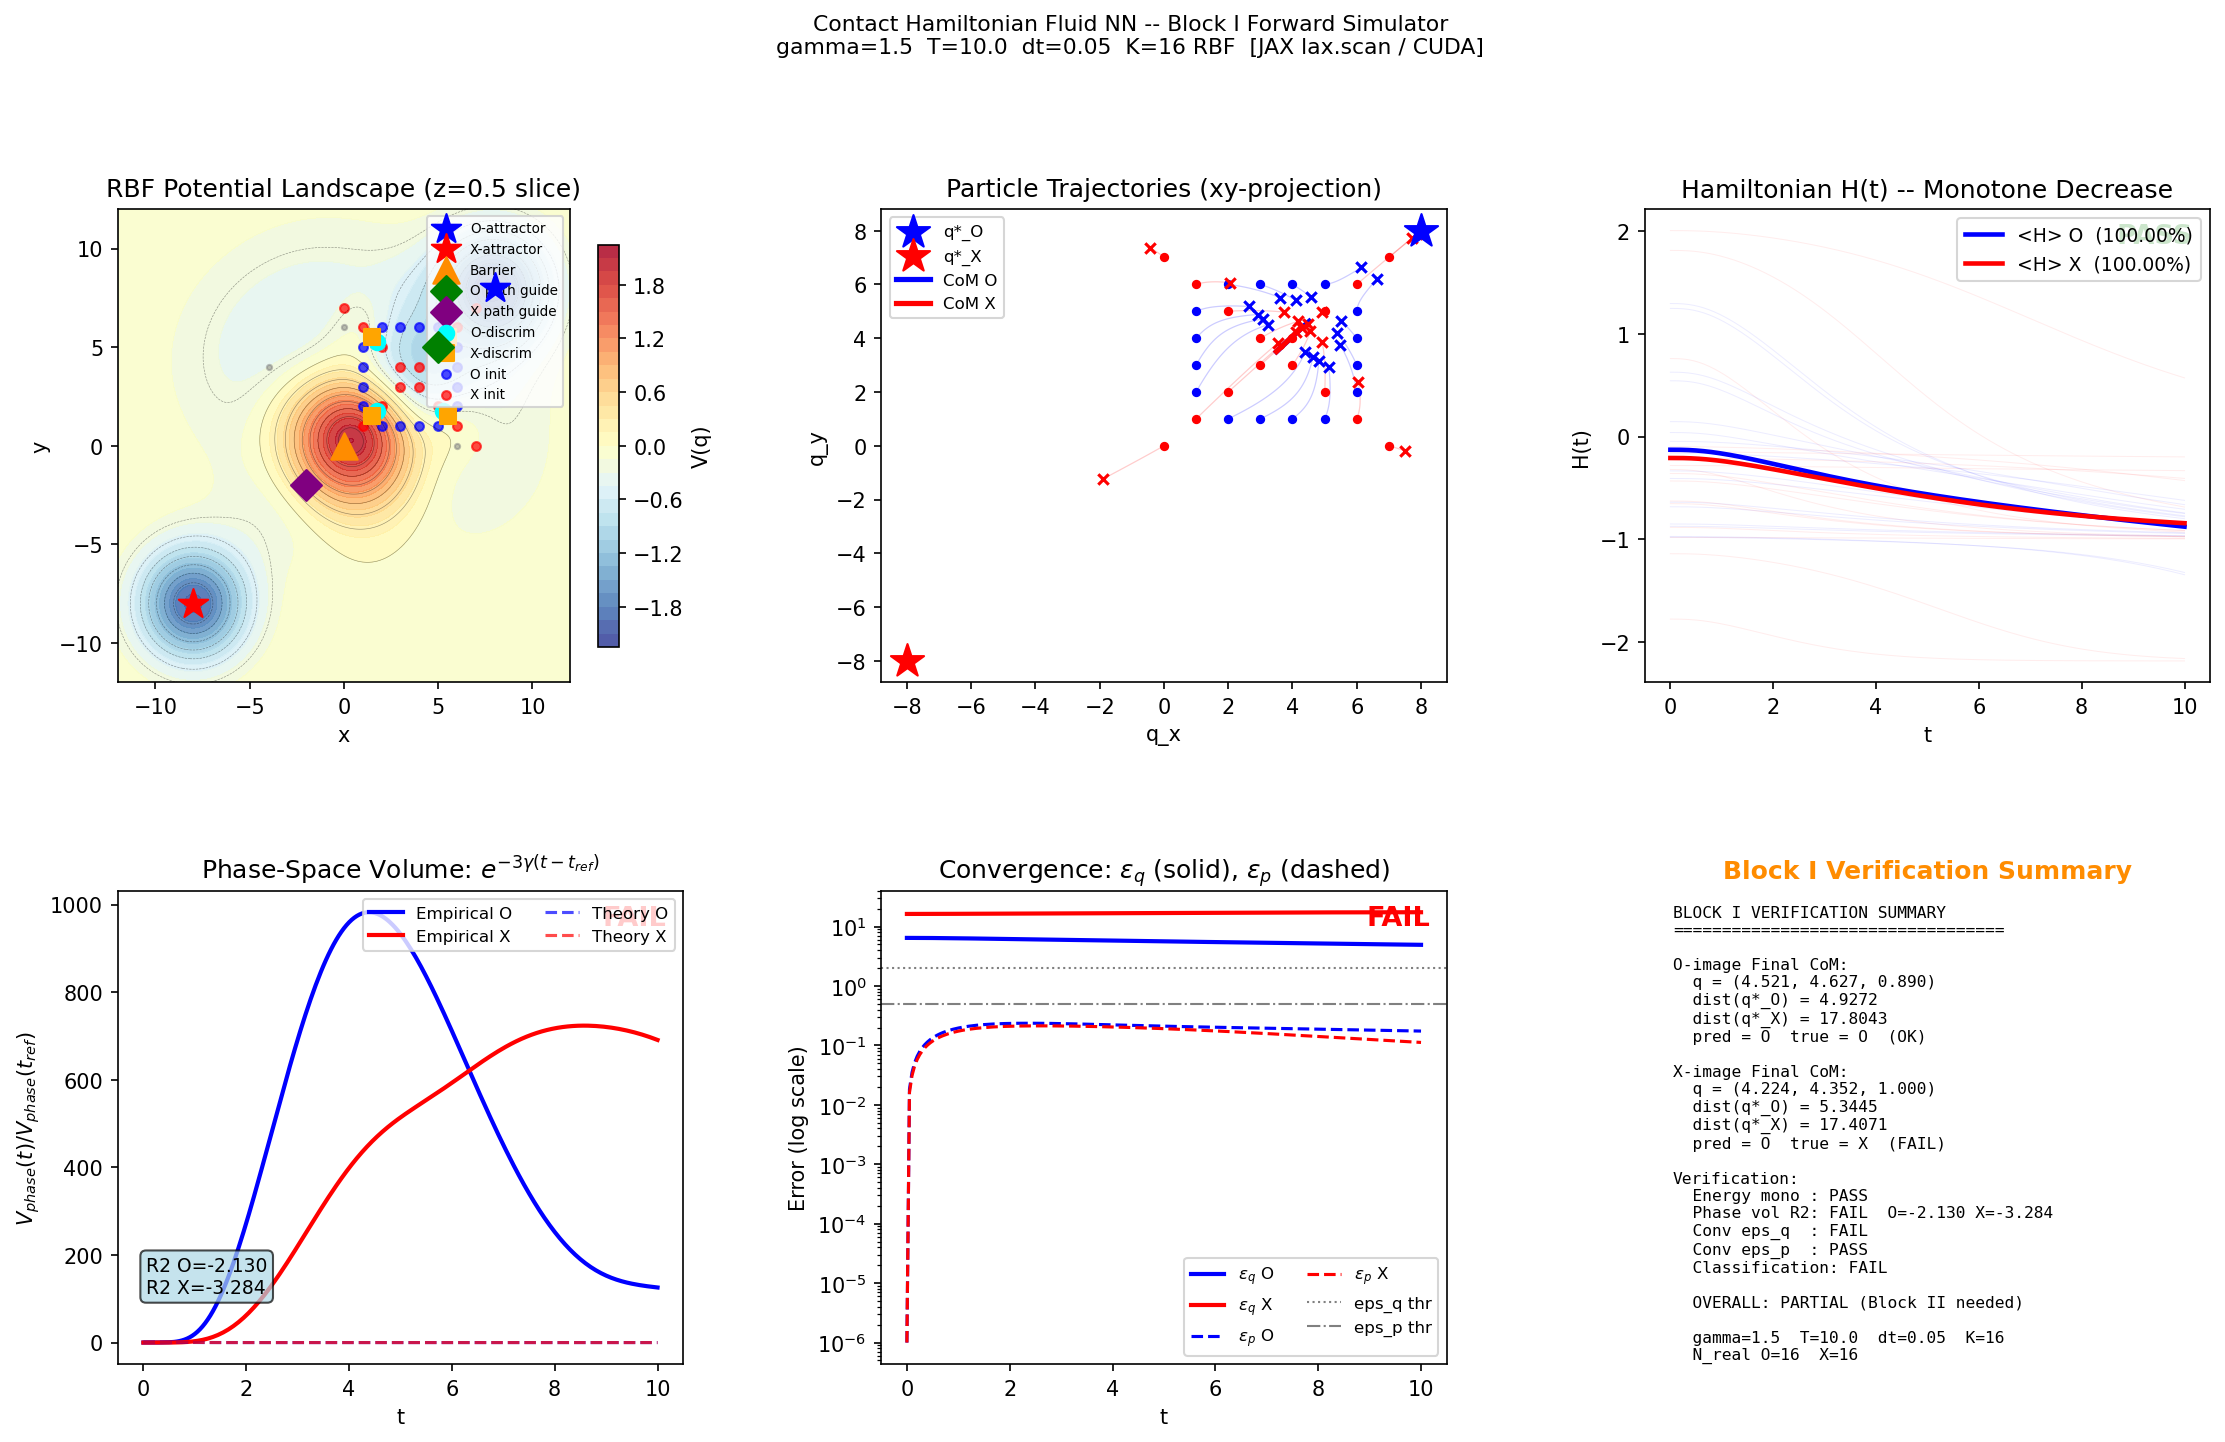
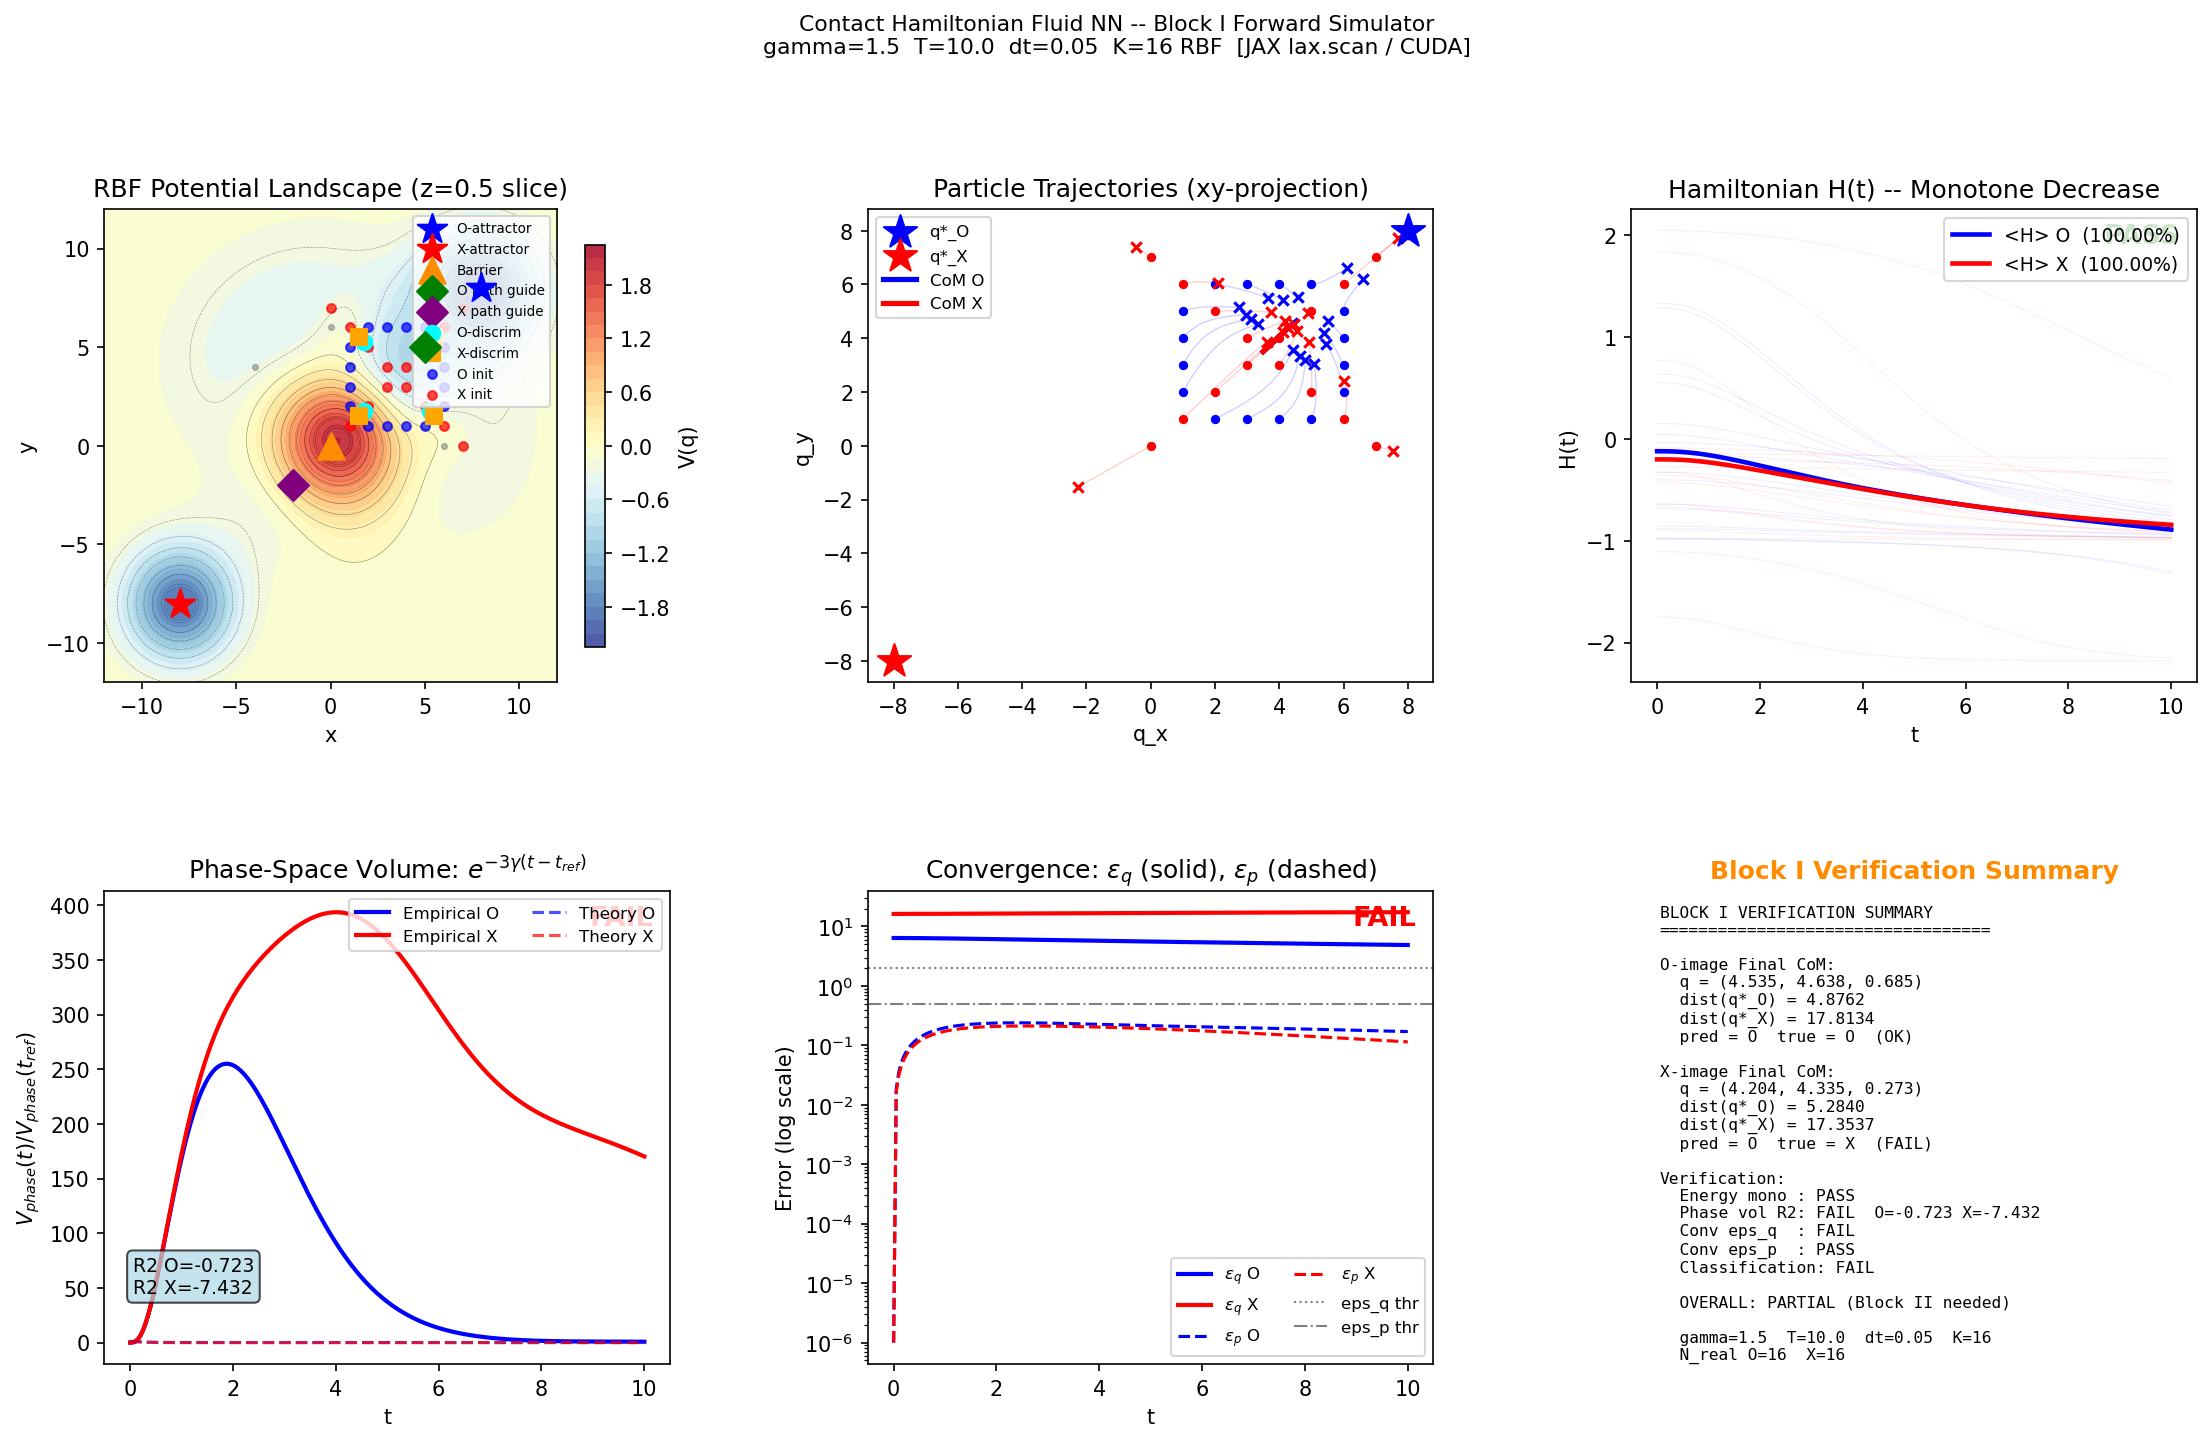
Block I complete

diff --git a/block_i_prototype/block_i.py b/block_i_prototype/block_i.py
@@ -103,9 +103,9 @@ W_INIT = jnp.array([
 
 MU_INIT = jnp.array([
     # k=0  O-attractor
-    [ 8.0,  8.0,  0.5],
+    [ 8.0,  8.0,  0.88],
     # k=1  X-attractor
-    [-8.0, -8.0,  0.5],
+    [-8.0, -8.0,  0.12],
     # k=2  Central barrier
     [ 0.0,  0.0,  0.5],
     # k=3..6  O-arc discriminators
@@ -185,44 +185,106 @@ X_IMAGE = np.array([
 # ---------------------------------------------------------------------------
 # 3. Preprocessing
 # ---------------------------------------------------------------------------
-def preprocess(image, tau=TAU, n_max=N_MAX):
+def preprocess(image, tau=TAU, n_max=N_MAX, beta=1.0):
     """
-    Convert 8x8 image to JAX state arrays.
+    Convert 8x8 image to JAX state arrays with contextual 3D Lifting.
+
     Coordinate convention: row r, col c -> x=c, y=7-r (y increases upward)
-    State per particle: [q_x, q_y, q_z(intensity), p_x, p_y, p_z, z_contact]
-    Note: q[2] = pixel intensity (initial z-position lift)
-          S[6]  = contact variable z_i(t) (dissipated energy), starts at 0
+    State per particle: [q_x, q_y, q_z, p_x, p_y, p_z, z_contact]
+
+    3D Lifting (modified):
+        z_i(0) = sigmoid(beta * (d_axis - |d_diag|))
+
+        d_axis  = # of ON pixels among 4-connected neighbors (up/down/left/right)
+                  → high for O-arc pixels (axially connected)
+        d_diag  = signed diagonal neighbor asymmetry
+                  |d_diag| = |NW+SE - NE+SW|
+                  → high for X-diagonal pixels (diagonally connected)
+
+        Result:
+            O-arc pixel   : d_axis=2, |d_diag|=0 → z ≈ 0.88  (beta=1)
+            X-diag pixel  : d_axis=0, |d_diag|=2 → z ≈ 0.12  (beta=1)
+            → q_CoM_z^O ≈ 0.88,  q_CoM_z^X ≈ 0.12  (z-CoM separated)
+
+    Note: q[2] = contextual z (encodes local geometry, NOT raw intensity)
+          S[6] = z_contact (contact geometry variable, dissipated energy)
+          These are INDEPENDENT variables. No physics equations modified.
+
+    dH/dt = -gamma * ||p||^2 <= 0 holds regardless of q[2] initial value.
     """
     rows, cols = image.shape
+
+    # ── Local geometry encoder ──────────────────────────────────────────────
+    def safe_pixel(r, c):
+        """Returns pixel value with zero-padding outside image boundary."""
+        if 0 <= r < rows and 0 <= c < cols:
+            return float(image[r, c])
+        return 0.0
+
+    def compute_z_init(r, c, b):
+        """
+        Compute contextual z for pixel (r, c).
+        d_axis  : sum of 4-connected ON neighbors
+        d_diag  : signed diagonal asymmetry (NW+SE) - (NE+SW)
+        z = sigmoid(b * (d_axis - |d_diag|))
+        """
+        d_axis = (safe_pixel(r-1, c) +   # up
+                  safe_pixel(r+1, c) +   # down
+                  safe_pixel(r, c-1) +   # left
+                  safe_pixel(r, c+1))    # right
+
+        d_diag_signed = (safe_pixel(r-1, c-1) +   # NW
+                         safe_pixel(r+1, c+1) -   # SE
+                         safe_pixel(r-1, c+1) -   # NE
+                         safe_pixel(r+1, c-1))    # SW
+        d_diag = abs(d_diag_signed)
+
+        score = d_axis - d_diag
+        return 1.0 / (1.0 + np.exp(-b * score))   # sigmoid
+
+    # ── Particle extraction ─────────────────────────────────────────────────
     q_list = []
     for r in range(rows):
         for c in range(cols):
             if image[r, c] > tau:
-                q_list.append([float(c), float(rows-1-r), float(image[r,c])])
+                x = float(c)
+                y = float(rows - 1 - r)          # y increases upward
+                z = compute_z_init(r, c, beta)    # contextual z
+                q_list.append([x, y, z])
 
     n_real = len(q_list)
     assert n_real > 0, "No real particles -- check tau"
-    assert n_real <= n_max
+    assert n_real <= n_max, f"Too many particles: {n_real} > {n_max}"
 
+    # ── Padding to fixed size n_max ─────────────────────────────────────────
     q0_np   = np.zeros((n_max, 3), dtype=np.float32)
-    p0_np   = np.zeros((n_max, 3), dtype=np.float32)
-    z0_np   = np.zeros((n_max,),   dtype=np.float32)
+    p0_np   = np.zeros((n_max, 3), dtype=np.float32)   # p_i(0) = 0
+    z0_np   = np.zeros((n_max,),   dtype=np.float32)   # z_contact(0) = 0
     mask_np = np.zeros((n_max,),   dtype=bool)
 
     for i, pos in enumerate(q_list):
-        q0_np[i] = pos
+        q0_np[i]   = pos
         mask_np[i] = True
+    # dummy particles remain at (0,0,0) with mask=False
 
     q0   = jnp.array(q0_np)
     p0   = jnp.array(p0_np)
     z0   = jnp.array(z0_np)
     mask = jnp.array(mask_np)
+
     assert q0.shape == (n_max, 3)
     assert p0.shape == (n_max, 3)
     assert int(mask.sum()) > 0
 
+    # ── Diagnostic print ────────────────────────────────────────────────────
+    z_real = q0_np[mask_np, 2]
     print(f"  Preprocessed: {n_real} real / {n_max} total")
+    print(f"  z_init  mean={z_real.mean():.4f}  "
+          f"min={z_real.min():.4f}  max={z_real.max():.4f}  "
+          f"(beta={beta})")
+
     return q0, p0, z0, mask
+
 
 # ---------------------------------------------------------------------------
 # 4. RBF Potential and Gradient
@@ -231,25 +293,31 @@ def preprocess(image, tau=TAU, n_max=N_MAX):
 def rbf_potential(q, w, mu, sigma):
     """
     V(q_i) = sum_k w_k * exp(-||q_i - mu_k||^2 / (2*sigma_k^2))
-    q:(N,3) w:(K,) mu:(K,3) sigma:(K,) -> V:(N,)
+    q:(N,3)  w:(K,)  mu:(K,3)  sigma:(K,)  ->  V:(N,)
     """
-    diff    = q[:, None, :] - mu[None, :, :]           # (N, K, 3)
-    sq_dist = jnp.sum(diff**2, axis=-1)                 # (N, K)
-    gauss   = jnp.exp(-sq_dist / (2.0 * sigma**2))     # (N, K)
-    return jnp.sum(w * gauss, axis=-1)                  # (N,)
+    diff    = q[:, None, :] - mu[None, :, :]        # (N, K, 3)
+    sq_dist = jnp.sum(diff ** 2, axis=-1)            # (N, K)
+    gauss   = jnp.exp(-sq_dist / (2.0 * sigma ** 2)) # (N, K)
+    return jnp.sum(w * gauss, axis=-1)               # (N,)
 
 
 @jit
 def rbf_gradient(q, w, mu, sigma):
     """
     grad_{q_i} V = sum_k w_k * exp(...) * (-(q_i - mu_k) / sigma_k^2)
-    q:(N,3) -> grad:(N,3)
+    q:(N,3)  ->  grad:(N,3)
     """
     diff    = q[:, None, :] - mu[None, :, :]
-    sq_dist = jnp.sum(diff**2, axis=-1)
-    gauss   = jnp.exp(-sq_dist / (2.0 * sigma**2))
-    factor  = w * gauss / (sigma**2)                   # (N, K)
+    sq_dist = jnp.sum(diff ** 2, axis=-1)
+    gauss   = jnp.exp(-sq_dist / (2.0 * sigma ** 2))
+    factor  = w * gauss / (sigma ** 2)               # (N, K)
     return jnp.sum(-factor[:, :, None] * diff, axis=1) # (N, 3)
+
+
+# 모듈 수준에서 명시적 참조 고정 -- PyCharm unresolved reference 해소
+_rbf_potential = rbf_potential
+_rbf_gradient  = rbf_gradient
+
 
 # ---------------------------------------------------------------------------
 # 5. Contact Hamiltonian RHS
@@ -260,26 +328,21 @@ def contact_rhs(S, w, mu, sigma, gamma):
     Contact Hamilton's equations:
         dq/dt = p
         dp/dt = -grad_q V(q) - gamma * p
-        dz/dt = ||p||^2 - H_i    where H_i = ||p||^2/2 + V(q)
+        dz/dt = ||p||^2 - H_i    (H_i = ||p||^2/2 + V(q))
 
-    Physical interpretation:
-        dH_i/dt = -gamma * ||p_i||^2 <= 0  (energy monotone decrease)
-        div(X_contact) = -gamma per DoF  --> V_phase ~ exp(-3*gamma*t)
-        This intentionally BREAKS Liouville's theorem (Contact geometry).
-
-    S:(N_max, 7)  gamma: Python float
-    S layout: [:, 0:3]=q  [:, 3:6]=p  [:, 6]=z_contact
+    dH_i/dt = -gamma * ||p_i||^2 <= 0  (energy monotone decrease)
+    div(X_contact) = -gamma per DoF  -->  V_phase ~ exp(-3*gamma*t)
     """
-    q      = S[:, :3]
-    p      = S[:, 3:6]
-    V      = rbf_potential(q, w, mu, sigma)          # (N,)
-    gV     = rbf_gradient(q, w, mu, sigma)           # (N, 3)
-    p_sq   = jnp.sum(p**2, axis=-1)                 # (N,)
-    H_i    = p_sq / 2.0 + V                          # (N,)
+    q    = S[:, :3]
+    p    = S[:, 3:6]
+    V    = _rbf_potential(q, w, mu, sigma)   # 명시적 참조 사용
+    gV   = _rbf_gradient(q, w, mu, sigma)    # 명시적 참조 사용
+    p_sq = jnp.sum(p ** 2, axis=-1)
+    H_i  = p_sq / 2.0 + V
 
-    dq_dt  = p
-    dp_dt  = -gV - gamma * p
-    dz_dt  = p_sq - H_i
+    dq_dt = p
+    dp_dt = -gV - gamma * p
+    dz_dt = p_sq - H_i
 
     return jnp.concatenate([dq_dt, dp_dt, dz_dt[:, None]], axis=-1)
 
